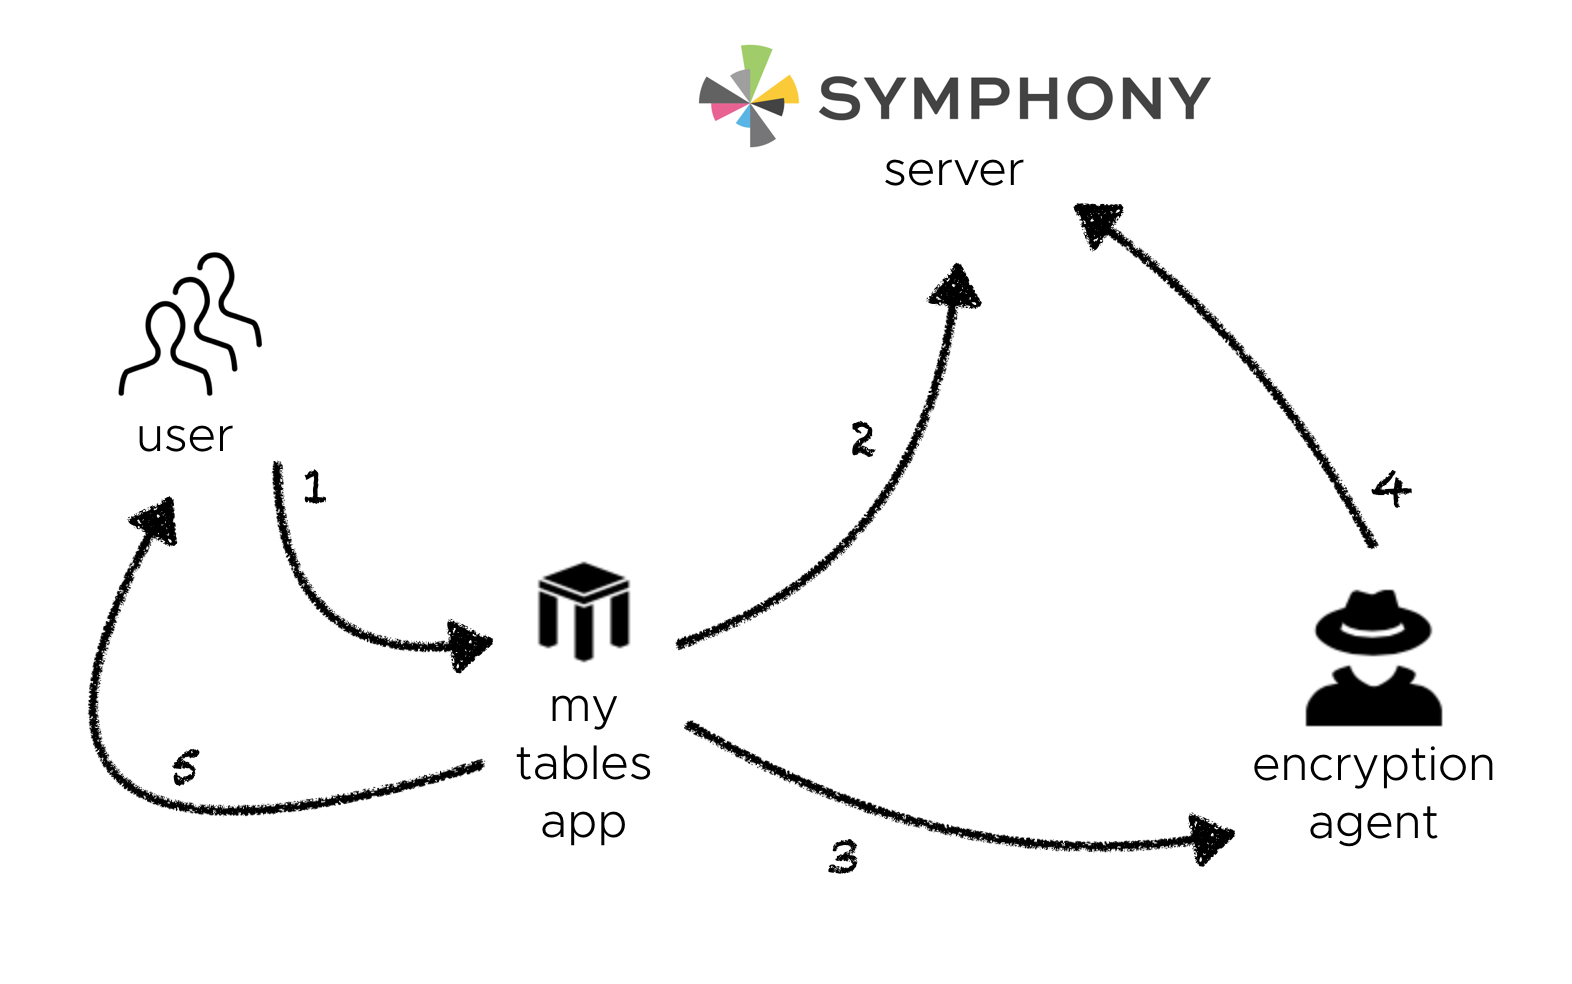
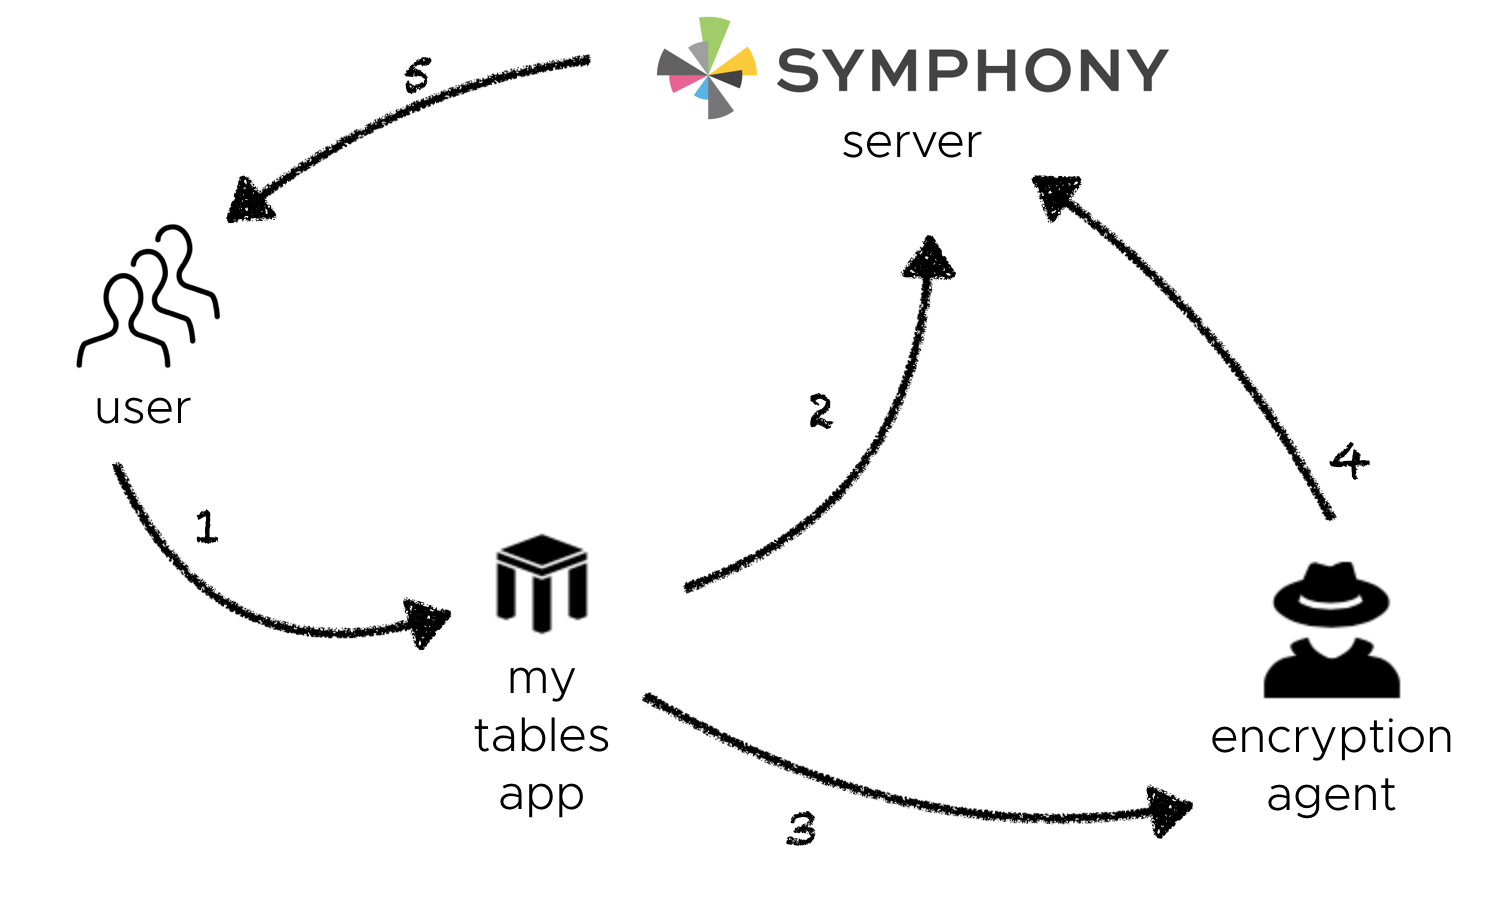
Edits to Debugging
Former-commit-id: 99130d9a274f90601d1d4518ef6e1dc88985a7b5

diff --git a/Debugging-Bets.md b/Debugging-Bets.md
@@ -43,7 +43,7 @@ So, what is supposed to happen?
 2.  Tables App then makes a request to the Symphony Server for an On-Behalf-Of token.
 3.  With this token, Tables App then makes a request to the Encryption Agent to post a message.
 4.  The Encryption Agent encrypts the message, and forwards it on to the Symphony Server.  
-5.  If that goes well, it returns a 200 response to Tables App, saying the message is posted, and it appears in the chat.
+5.  If that goes well, the message is added to the chat, and is delivered from the Symphony Server to the user's screen.
 
 However, things go south around step 4:   I see the On-Behalf-Of token in Tables App, but using it with the Encryption Agent fails.
 
